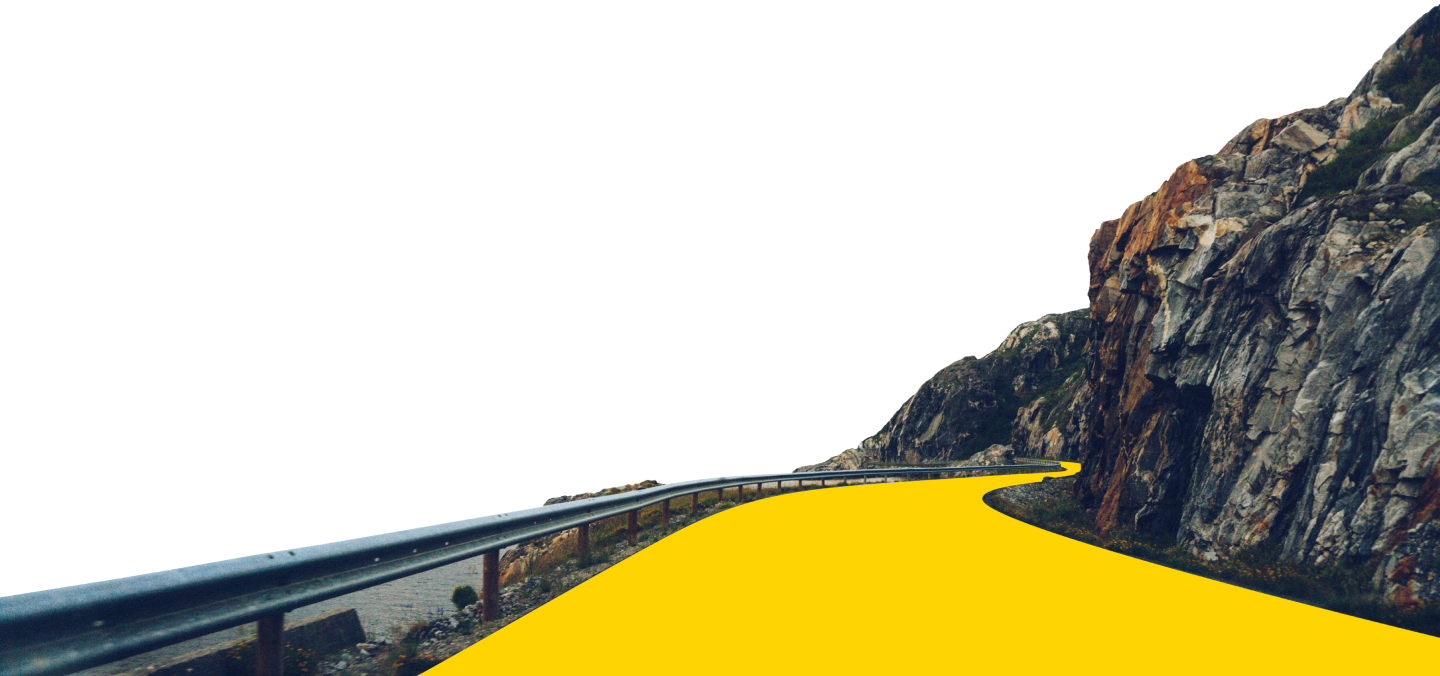
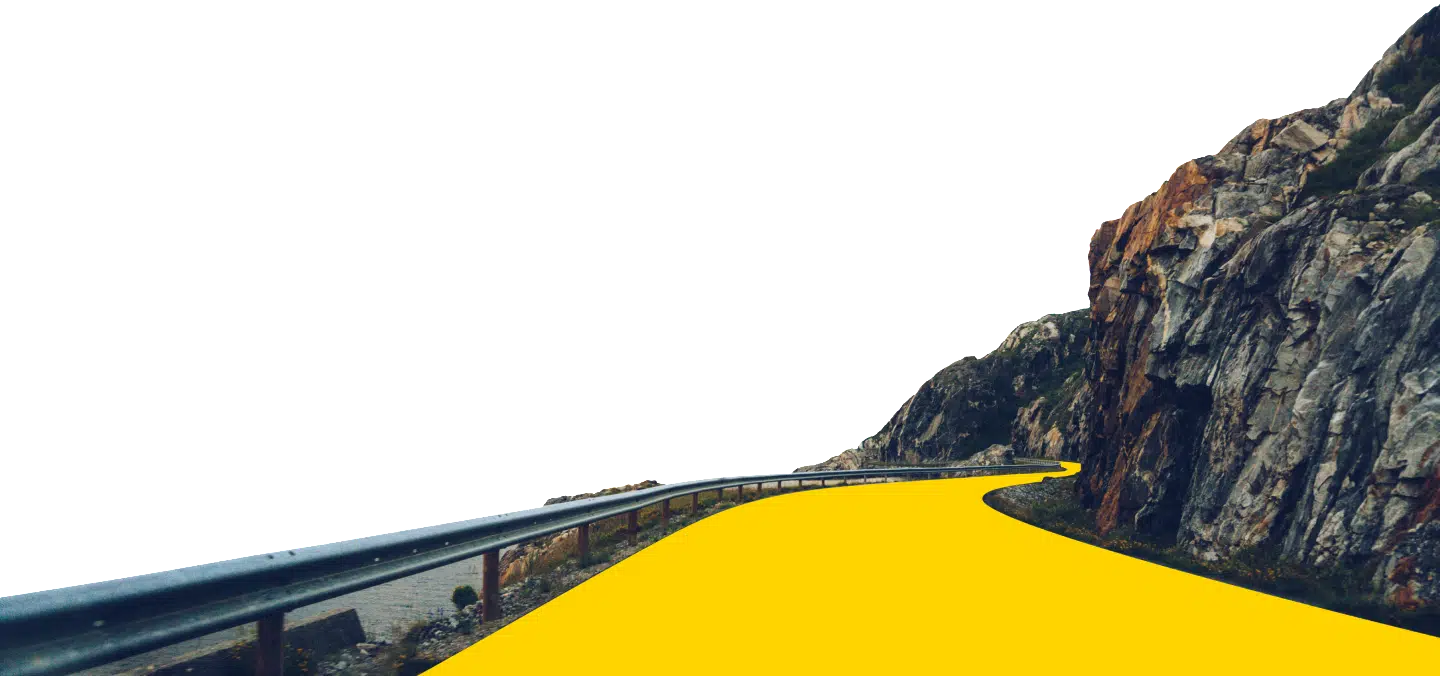
style: 💄 compress images

diff --git a/src/routes/resume/index.less b/src/routes/resume/index.less
@@ -61,7 +61,7 @@
       box-shadow: rgba(99, 99, 99, 0.2) 0px 2px 8px 0px;
       font-family: "SF Pro SC","HanHei SC","SF Pro Text","Myriad Set Pro","SF Pro Icons","PingFang SC","Helvetica Neue","Helvetica","Arial",sans-serif;
       box-sizing: border-box;
-      background-image: url(/asset/image/resume_cover.png);
+      background-image: url(/asset/image/resume_cover.webp);
       background-size: cover;
       background-size: 150%;
       position: relative;
@@ -76,7 +76,7 @@
         background-repeat: no-repeat;
         background-position: center;
         background-size: 120%;
-        background-image: url(/asset/image/cover.png);
+        background-image: url(/asset/image/cover.webp);
         margin-bottom: 8px;
         .info {
           position: absolute;

diff --git a/src/routes/index.tsx b/src/routes/index.tsx
@@ -67,7 +67,7 @@ export default component$(() => {
 			<Section
 				title="开拓"
 				desc="向上生长，向下扎根"
-				img="/asset/image/tree.png"
+				img="/asset/image/tree.webp"
 				containerStyles={{ backgroundColor: "#fff" }}
 			/>
 			<Section
@@ -81,14 +81,14 @@ export default component$(() => {
 			<Section
 				title="分享"
 				desc="开源开放，打破桎梏"
-				img="/asset/image/egg.png"
+				img="/asset/image/egg.webp"
 				containerStyles={{ backgroundColor: "#fff" }}
 				imageStyles={{ width: "22%" }}
 			/>
 			<Section
 				title="内省"
 				desc="积水为溪，厚积薄发"
-				img="/asset/image/river.png"
+				img="/asset/image/river.webp"
 				dark={true}
 				containerStyles={{ backgroundColor: "#000" }}
 				fullImg={true}

diff --git a/src/routes/about/index.tsx b/src/routes/about/index.tsx
@@ -43,7 +43,7 @@ export default component$(() => {
 			<TechSection />
 			<ReadingSection />
 			<Quote
-				bgSrc="/asset/image/quote-bg.jpeg"
+				bgSrc="/asset/image/quote-bg.webp"
 				text="让有意义的事变得有趣，让有趣的事变得有意义！"
 			/>
 			<WritingSection />
